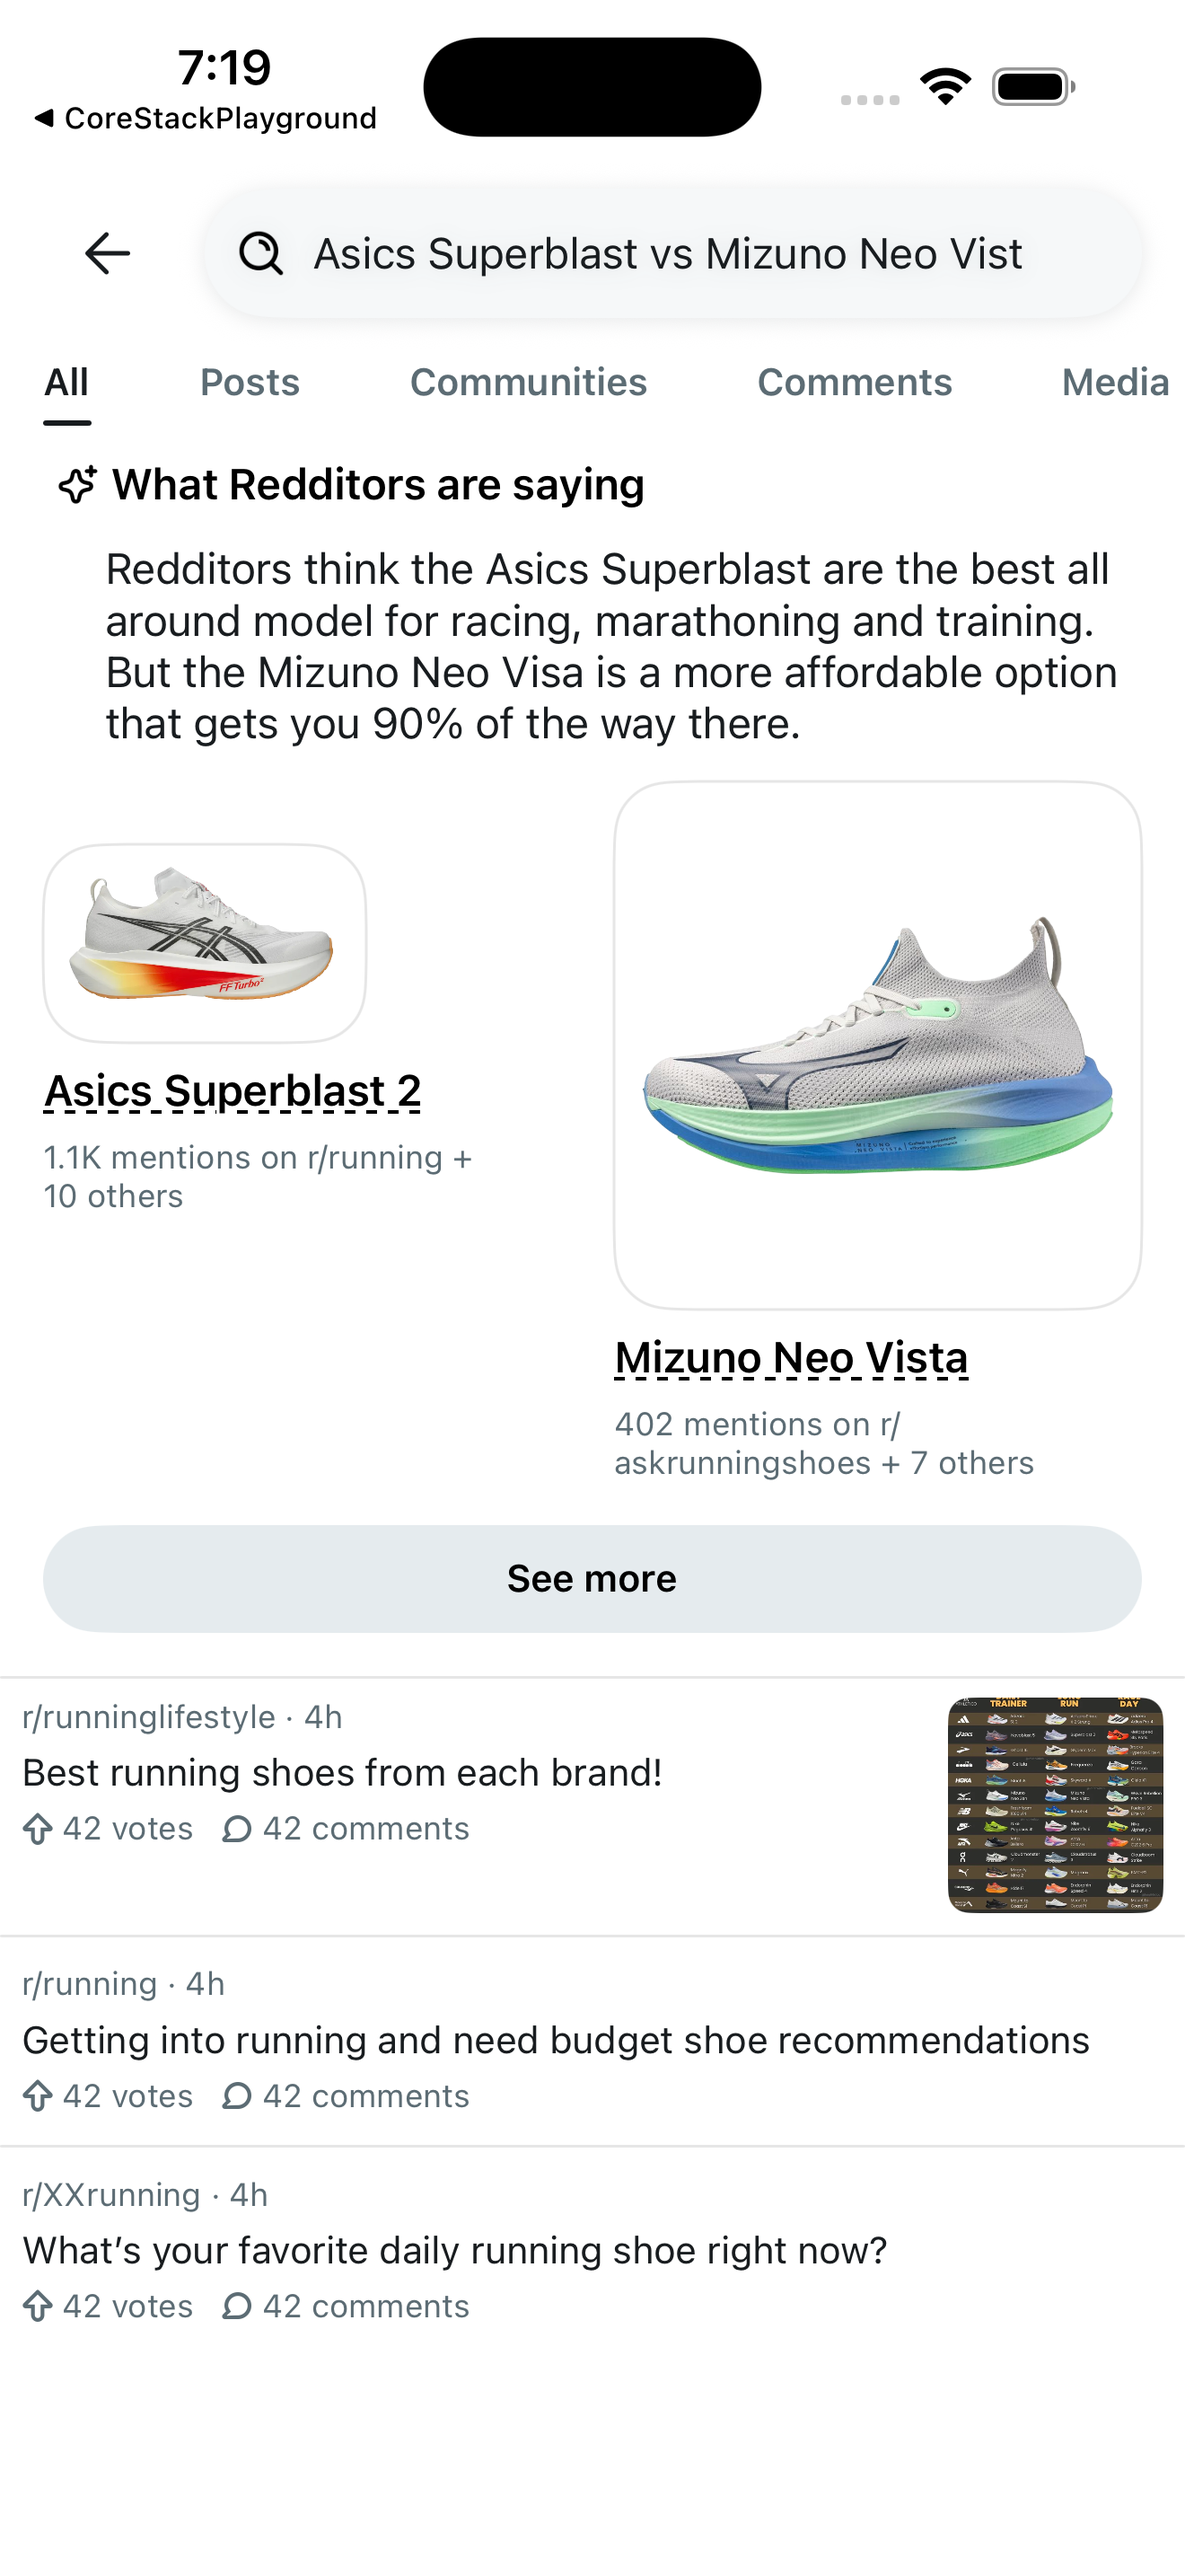
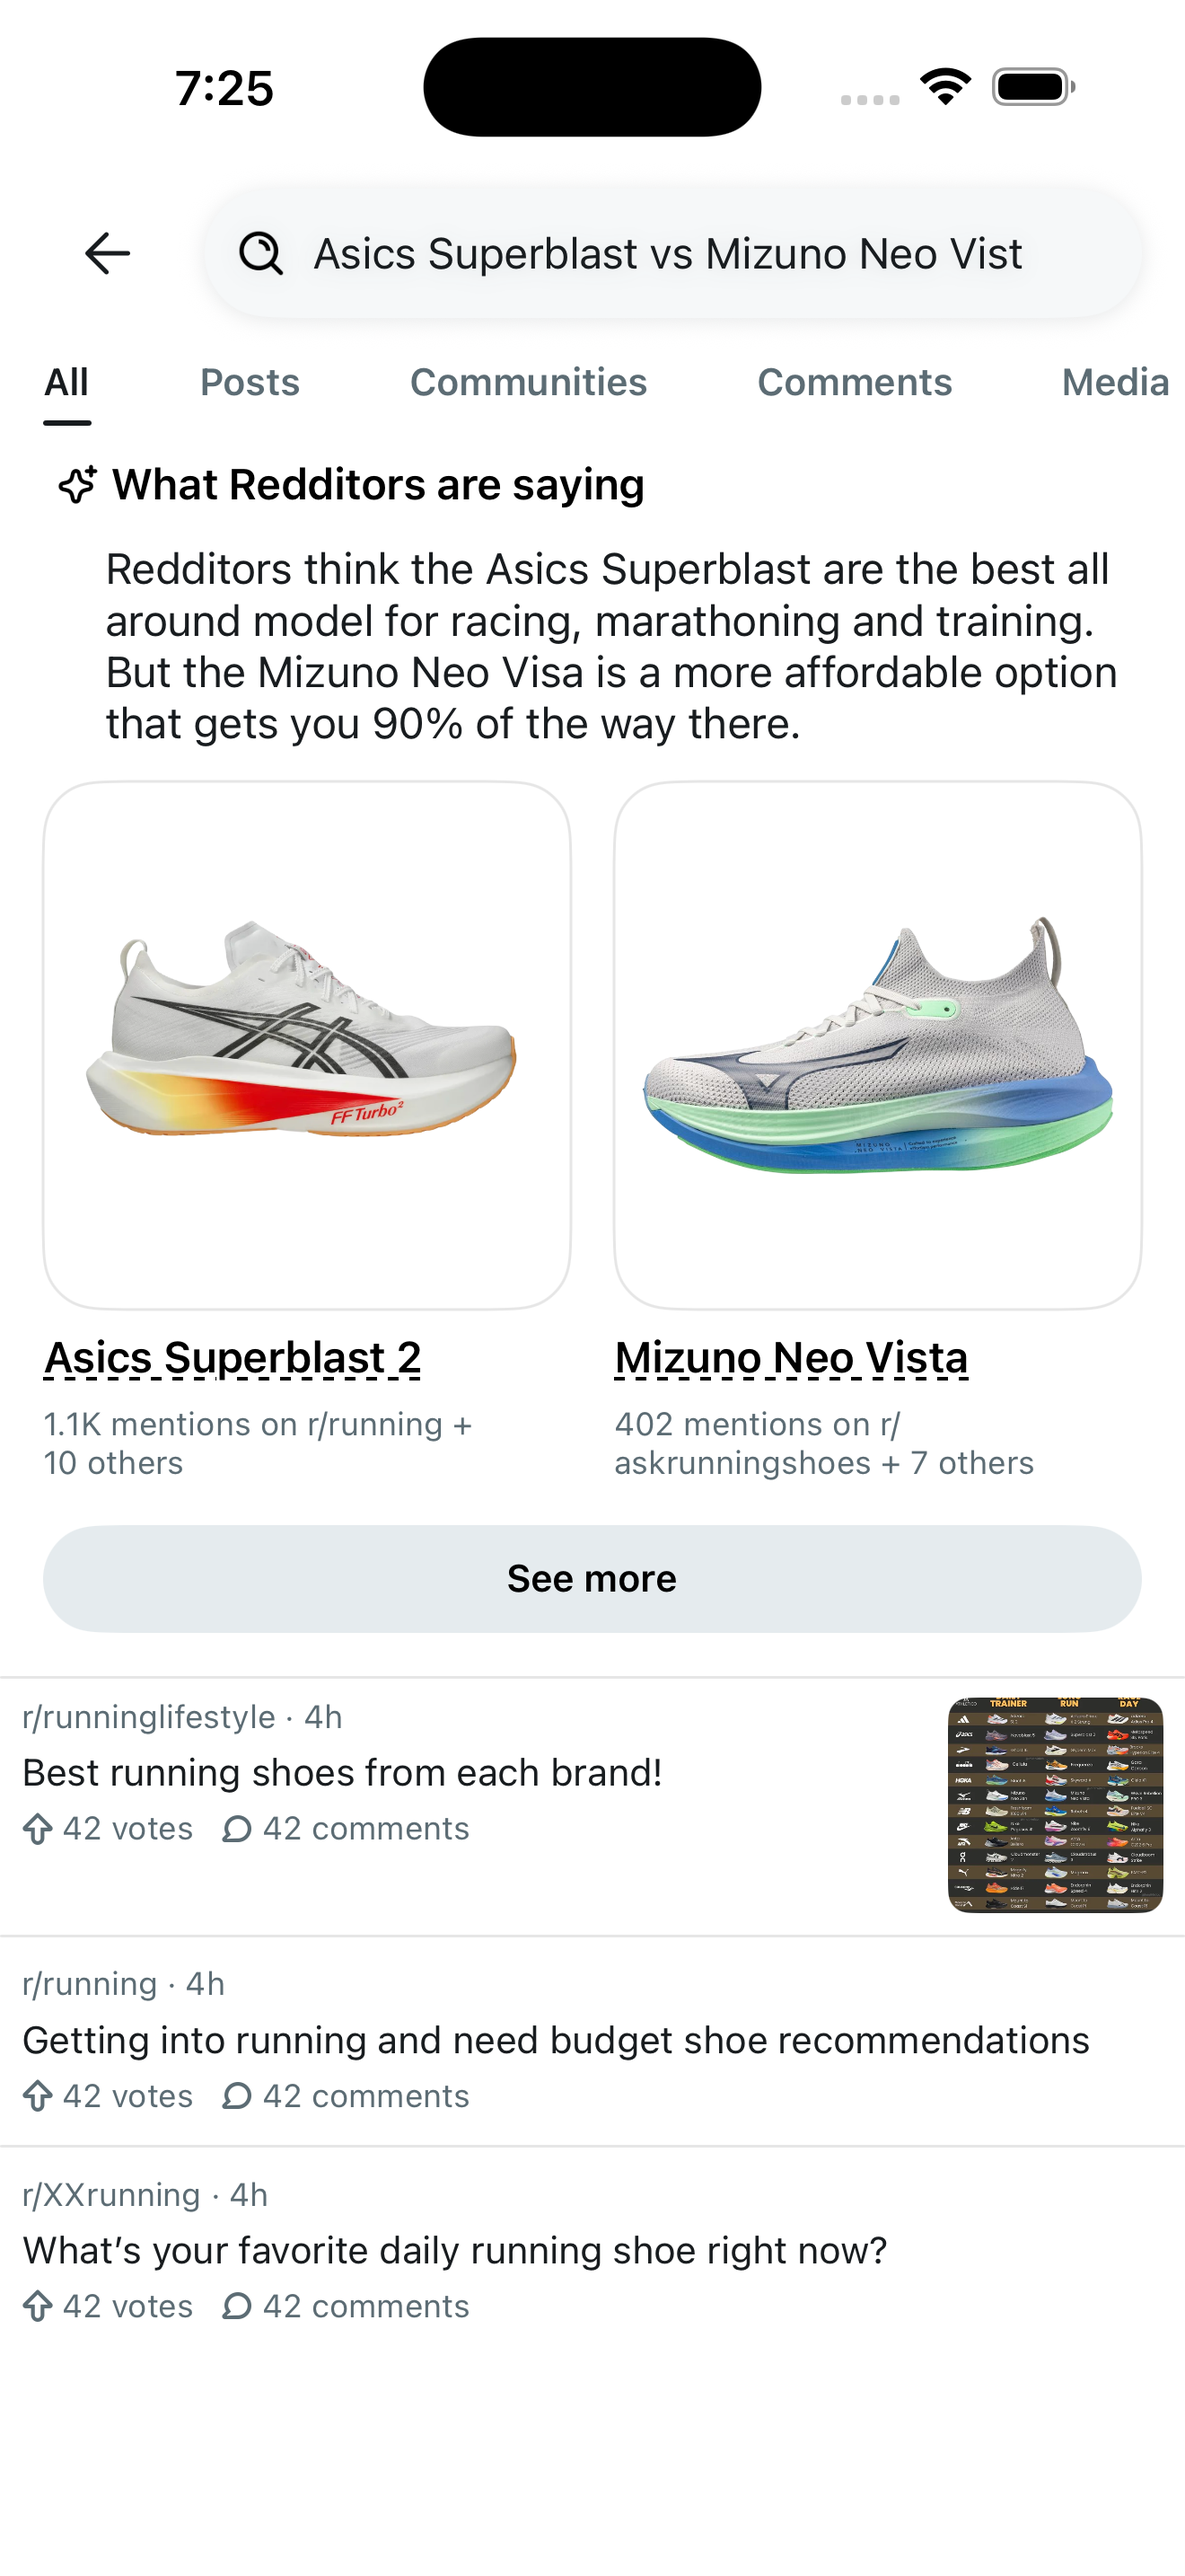
Fix product card width parity
Use equal flexible grid columns so assets with different intrinsic aspect ratios render in matching square cards, consistent with the compiled Phase 1 design.

Changed region(s): [[0.0311, 0.3103, 0.4348, 0.4655], [0.0311, 0.4965, 0.3727, 0.5896], [0.0311, 0.0, 0.3106, 0.0621]]

diff --git a/Modules/ShoppingIntel/ShoppingIntel/Sources/Internal/UI/ShoppingIntelHostedViews.swift b/Modules/ShoppingIntel/ShoppingIntel/Sources/Internal/UI/ShoppingIntelHostedViews.swift
@@ -188,18 +188,26 @@ private struct ShoppingIntelProductCardsContent: View {
   @Environment(\.redditTheme) private var theme: RPLTheme
 
   var body: some View {
-    HStack(alignment: .top, spacing: 16) {
+    LazyVGrid(
+      columns: [
+        GridItem(.flexible(), spacing: 16),
+        GridItem(.flexible()),
+      ],
+      alignment: .leading,
+      spacing: 0
+    ) {
       ForEach(payload.products) { product in
         VStack(alignment: .leading, spacing: 8) {
-          Group {
+          ZStack {
+            Color(theme.color.rpl.neutral.background)
             if let image = ShoppingIntelResources.image(named: product.imageName) {
-              Image(uiImage: image).resizable()
-            } else {
-              Color(theme.color.rpl.neutral.backgroundContainer)
+              Image(uiImage: image)
+                .resizable()
+                .scaledToFit()
             }
           }
-          .scaledToFit()
           .aspectRatio(1, contentMode: .fit)
+          .frame(maxWidth: .infinity)
           .background(Color(theme.color.rpl.neutral.background))
           .clipShape(RoundedRectangle(cornerRadius: 21))
           .overlay(
